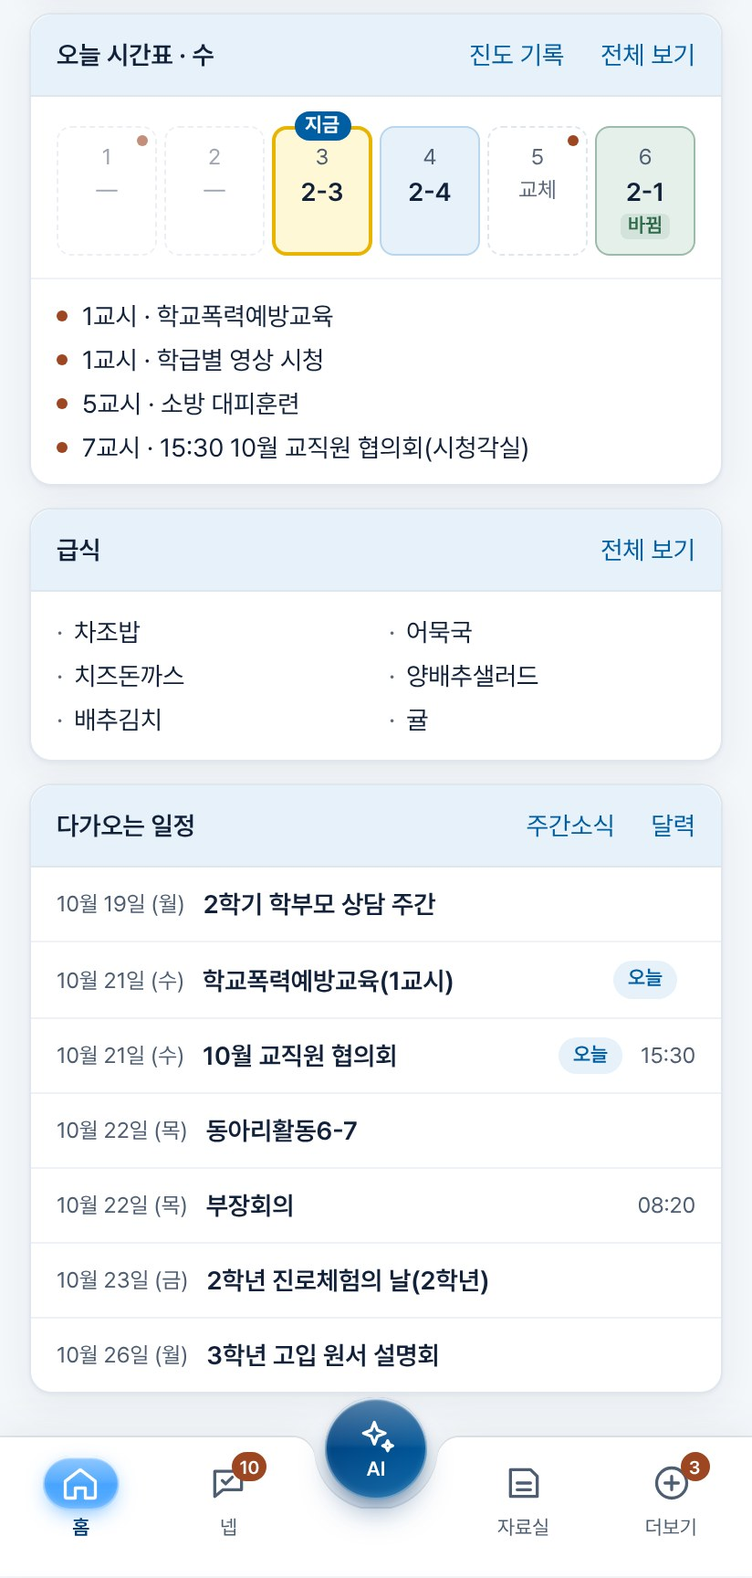
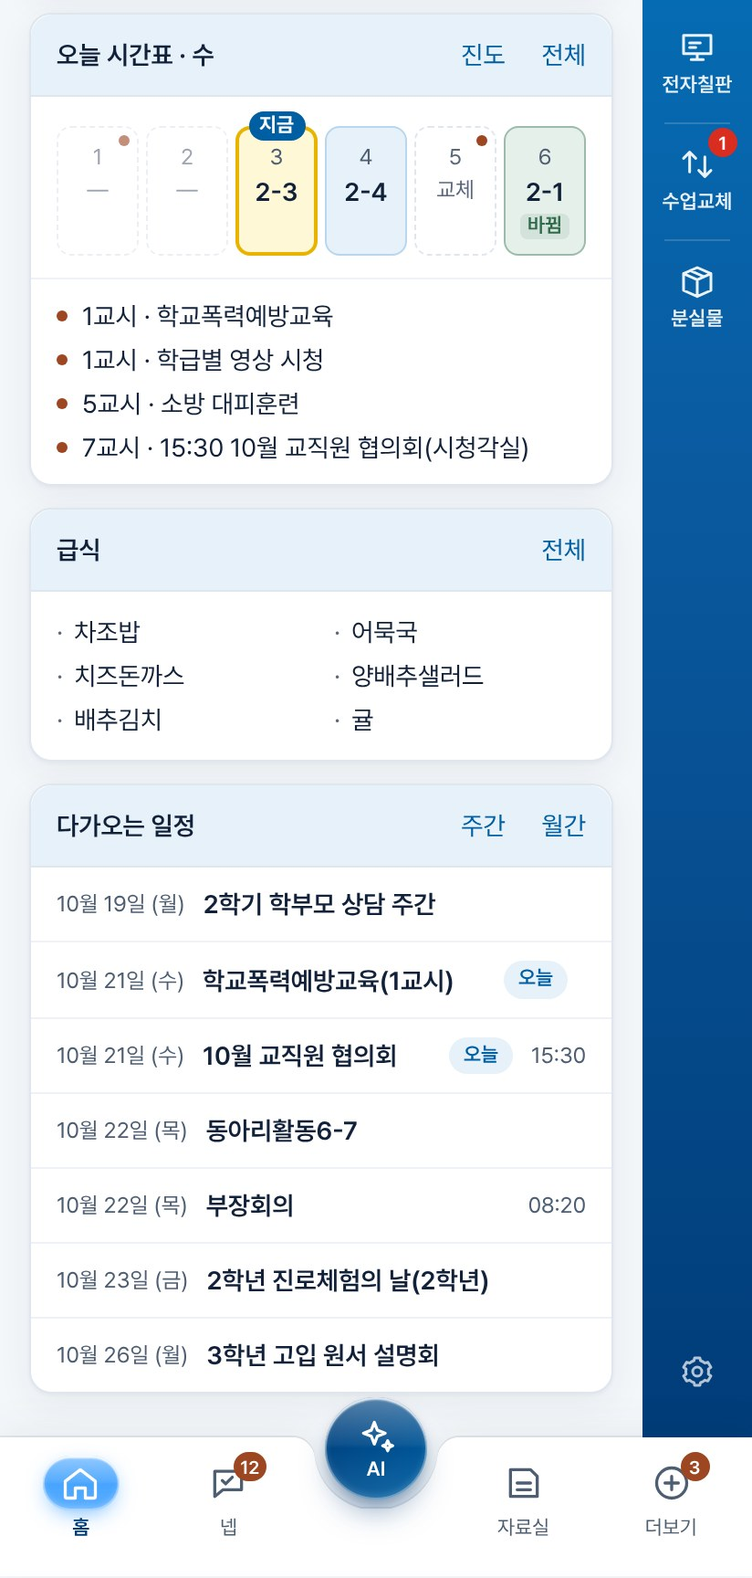
홈 오른쪽 바로가기 기둥(10/30)·카드 머리 두 글자(10/31) 반영 — 홈 그림 다시, 톱니 「바로가기 고르기」 장면
- 홈·홈 아래·PC 홈 그림 다시, 바로가기 고르기 창 새 그림
- 시간표 「전체」·진도 「진도」·일정 「월간」·주간소식 「주간」으로 글 바꿈
- PC 프로그램 0.3.11(옛 0.3.8 내려받기 링크가 지워진 파일을 가리키던 것), 넵 보낸 탭은 여러 분께·예약만
- 첫 화면 「10월 26~31일에 바뀐 것」

Claude-Session: https://claude.ai/code/session_01PnRkvZMXyWQ3PDuECRmpn5

diff --git a/img/rects.js b/img/rects.js
@@ -1,3 +1,3 @@
 /* 화면마다 동그라미 칠 자리(412×864 기준, 찍을 때 잰 값) — R(화면, 키) */
-window.SHOT_RECTS = {"ai-board": {"button": [31, 446, 162, 40], "card": [16, 286, 380, 213], "head": [31, 297, 177, 20], "question": [73, 68, 323, 98]}, "ai-deep": {"answer": [16, 202, 323, 464], "feedback": [20, 672, 41, 36], "question": [73, 68, 323, 124]}, "ai-deep-ready": {"deep": [72, 588, 211, 34], "file": [16, 499, 380, 38], "input": [72, 634, 268, 72], "plus": [16, 658, 48, 48], "send": [348, 658, 48, 48]}, "ai-form": {"answer": [16, 124, 323, 308], "feedback": [20, 438, 41, 36], "links": [267, 372, 37, 19], "question": [147, 68, 249, 46]}, "ai-home": {"chip_first": [16, 202, 380, 46], "chips": [16, 201, 380, 236], "clear": [333, 12, 71, 44], "greet": [16, 100, 380, 30], "head": [16, 16, 74, 36], "hello": [16, 134, 380, 39], "input": [72, 658, 268, 48], "mic": [348, 658, 48, 48], "notice": [16, 718, 380, 33], "plus": [16, 658, 48, 48], "tab_ai": [166, 792, 81, 44]}, "ai-lesson": {"body": [31, 501, 350, 482], "card": [16, 260, 380, 834], "head": [17, 261, 378, 41], "question": [73, 68, 323, 72]}, "ai-lesson-2": {"body": [31, 48, 350, 482], "button": [31, 560, 111, 40]}, "ai-letter": {"body": [31, 620, 350, 274], "card": [16, 286, 380, 671], "head": [17, 287, 378, 41], "question": [73, 68, 323, 72]}, "ai-letter-2": {"body": [31, 276, 350, 274], "button": [31, 560, 151, 40], "feedback": [20, 619, 41, 36]}, "ai-library": {"answer": [16, 124, 323, 438], "feedback": [20, 568, 41, 36], "links": [65, 450, 37, 19], "question": [133, 68, 263, 46]}, "ai-lost": {"button": [31, 586, 84, 40], "card": [16, 312, 380, 327], "photo": [31, 366, 96, 96], "question": [73, 68, 323, 124]}, "ai-nep": {"button": [31, 726, 84, 40], "card": [16, 286, 380, 493], "edit": [127, 738, 89, 16], "people": [31, 589, 350, 84], "question": [73, 68, 323, 72]}, "ai-number": {"button": [31, 449, 96, 40], "card": [16, 260, 380, 242], "question": [81, 68, 315, 46]}, "ai-parent": {"answer": [16, 150, 323, 386], "feedback": [20, 542, 41, 36], "question": [73, 68, 323, 72]}, "ai-plus": {"attach": [22, 523, 284, 60], "close": [16, 658, 48, 48], "deep": [22, 584, 284, 60], "menu": [16, 517, 296, 133]}, "ai-progress": {"button": [31, 504, 108, 40], "card": [16, 286, 380, 271], "question": [73, 68, 323, 72]}, "ai-recruit": {"button": [31, 546, 68, 40], "card": [16, 312, 380, 287], "question": [73, 68, 323, 72], "reason": [31, 480, 350, 35]}, "ai-repair": {"button": [31, 576, 96, 40], "card": [16, 260, 380, 369], "head": [17, 261, 378, 41], "question": [73, 68, 323, 72]}, "ai-sign": {"button": [31, 705, 175, 40], "card": [16, 286, 380, 472], "people": [31, 544, 350, 151], "question": [73, 68, 323, 72]}, "ai-swap": {"calendar": [31, 364, 75, 14], "card": [16, 312, 380, 703], "question": [73, 68, 323, 72]}, "ai-typed": {"input": [72, 658, 268, 48], "plus": [16, 658, 48, 48], "send": [348, 658, 48, 48]}, "ai-week": {"answer": [16, 124, 323, 308], "feedback": [20, 438, 41, 36], "question": [214, 68, 182, 46]}, "alerts": {}, "alerts-done": {"clear": [316, 379, 80, 44], "summary": [16, 331, 380, 44]}, "board-alert": {"all": [174, 569, 92, 40], "fire": [150, 233, 113, 56], "kind": [266, 137, 112, 44], "offline": [31, 679, 350, 16], "presets": [31, 233, 350, 118], "submit": [31, 701, 350, 50]}, "board-alert-confirm": {"cancel": [16, 804, 136, 44], "go": [160, 804, 236, 44], "sheet": [0, 0, 412, 864], "text": [16, 720, 380, 72], "where": [16, 668, 380, 40]}, "board-grades": {"g1": [31, 531, 113, 40], "g2": [150, 531, 113, 40], "offline": [31, 602, 350, 16], "submit": [31, 624, 350, 50]}, "board-memo": {"body": [31, 233, 350, 110], "kind": [150, 137, 112, 44], "note": [31, 358, 350, 32], "submit": [31, 600, 350, 50]}, "board-photo": {"body": [31, 233, 350, 110], "photoChip": [105, 358, 90, 36], "submit": [31, 701, 350, 50], "thumb": [43, 456, 103, 80]}, "board-pick": {"all": [16, 535, 380, 44], "done": [16, 798, 380, 50], "grid": [16, 591, 380, 94], "legend": [16, 697, 380, 32], "off": [170, 641, 71, 44], "tabs": [16, 481, 380, 42]}, "board-send": {"body": [31, 233, 350, 110], "kinds": [31, 134, 350, 50], "mine": [272, 485, 109, 40], "options": [31, 358, 350, 78], "submit": [31, 602, 350, 50], "what": [31, 204, 350, 21], "where": [31, 456, 350, 115]}, "board-sent": {"done": [31, 528, 90, 22], "end": [31, 408, 50, 36], "live": [82, 381, 34, 16], "liveChip": [31, 378, 96, 22], "over": [31, 677, 88, 22], "reserve": [300, 129, 81, 16], "tabs": [247, 59, 134, 42], "unshown": [126, 733, 100, 22], "waitChip": [31, 185, 69, 22]}, "board-voice-rec": {"status": [43, 336, 326, 92], "stop": [287, 388, 82, 40]}, "calendar": {"grid": [16, 120, 380, 443], "seg": [206, 61, 187, 44], "today": [196, 391, 20, 20]}, "exam-card": {"ends": [31, 178, 350, 161], "head": [31, 87, 152, 20], "slots": [31, 134, 350, 32], "stats": [31, 351, 350, 73]}, "exam-card-pad": {"legend": [31, 150, 350, 16], "n24": [183, 307, 47, 40], "n7": [334, 195, 47, 40], "n9": [82, 239, 47, 40], "names": [31, 403, 350, 113], "stats": [31, 41, 350, 73]}, "exam-card-save": {"names": [31, 292, 350, 113], "note": [31, 470, 350, 48], "save": [31, 550, 350, 50]}, "forms": {"trip": [17, 110, 378, 56]}, "found": {"head": [16, 24, 380, 71]}, "home": {"bell": [360, 16, 44, 44], "changed": [326, 606, 55, 71], "hero": [16, 96, 380, 61], "hint": [16, 402, 380, 44], "nep": [16, 478, 380, 54], "now": [149, 606, 55, 71], "peek": [16, 168, 380, 142], "pill": [282, 179, 101, 28], "tabAi": [166, 792, 81, 44], "tabMore": [327, 792, 81, 61], "tabNep": [85, 792, 81, 61], "tileLesson": [16, 322, 186, 72], "tileSched": [210, 322, 186, 72], "tiles": [16, 322, 380, 72], "tt": [321, 545, 68, 44]}, "home-3": {"cal": [349, 430, 40, 44], "meal": [31, 291, 24, 20], "upcoming": [31, 442, 76, 20], "weekly": [280, 430, 64, 44]}, "home-sports": {"card": [16, 16, 380, 493], "link": [16, 16, 380, 493]}, "library": {"chips": [72, 214, 52, 39], "pinned": [16, 282, 380, 95], "search": [52, 169, 331, 23], "write": [310, 720, 86, 48]}, "library-new": {"kind": [206, 440, 172, 36], "section": [31, 120, 350, 48], "submit": [31, 624, 350, 50], "title": [31, 210, 350, 48]}, "library-post": {"download": [31, 211, 350, 44]}, "library-search": {"result": [16, 282, 380, 95], "search": [52, 169, 331, 23]}, "login": {"go": [58, 554, 296, 50], "name": [58, 299, 296, 48], "pw": [58, 467, 296, 48]}, "lost-date": {"head": [31, 91, 53, 28], "head2": [31, 207, 51, 28], "scene": [16, 76, 380, 680]}, "lost-found": {"add": [126, 679, 161, 54], "box": [16, 76, 380, 680], "item": [184, 368, 81, 81], "note": [16, 756, 380, 43], "returned": [286, 16, 110, 44], "student": [251, 767, 50, 13]}, "lost-found-2": {"add": [126, 643, 161, 54], "note": [16, 720, 380, 43], "student": [251, 731, 50, 13]}, "lost-found-add": {"photo": [16, 154, 380, 212], "place": [16, 558, 380, 73], "submit": [149, 863, 247, 44]}, "lost-found-detail": {"back": [16, 804, 380, 44], "info": [16, 572, 380, 133]}, "lost-kind": {"head": [31, 91, 58, 28], "scene": [16, 76, 380, 680]}, "lost-tilt": {"btn": [280, 89, 103, 34], "scene": [16, 76, 380, 680]}, "meals": {}, "more-2": {"lost": [17, 228, 378, 56], "noti": [17, 524, 378, 56], "sign": [17, 376, 378, 56], "signature": [17, 580, 378, 56]}, "more-tools": {"board": [17, 383, 378, 56], "lost": [17, 643, 378, 56], "tools": [17, 439, 378, 56]}, "more-top": {"avatar": [107, 128, 203, 17]}, "nep-add": {"add": [16, 448, 253, 44]}, "nep-big": {"sheet": [0, 0, 412, 864]}, "nep-board": {"meter": [16, 173, 380, 76], "pending": [16, 261, 380, 21], "remind": [16, 328, 380, 44]}, "nep-board-replies": {"replies": [17, 509, 378, 37]}, "nep-board-submit": {"downloadAll": [275, 420, 121, 44]}, "nep-cal": {"events": [35, 292, 55, 20], "post": [35, 438, 342, 44]}, "nep-compose": {"plus": [16, 808, 44, 44], "send": [312, 808, 84, 44], "text": [16, 85, 380, 144], "to": [53, 52, 49, 25]}, "nep-compose-due": {"chip": [16, 237, 152, 29], "due": [43, 281, 261, 36], "send": [312, 808, 84, 44]}, "nep-event-hide": {"hide": [239, 385, 95, 44]}, "nep-fwd": {"card": [12, 276, 341, 358], "fwd": [307, 281, 39, 36]}, "nep-fwd-org": {"banner": [30, 148, 316, 40], "bar": [284, 702, 104, 41]}, "nep-inbox": {"chip": [341, 457, 51, 21], "me": [0, 128, 412, 68], "recruit": [0, 264, 412, 68], "row": [0, 196, 412, 68], "tabs": [16, 76, 380, 48], "unread": [372, 230, 20, 20]}, "nep-inbox-2": {"over": [332, 725, 60, 21], "park": [0, 623, 412, 68], "parkChip": [332, 657, 60, 21]}, "nep-link": {"ack": [27, 315, 60, 44], "card": [12, 118, 341, 254], "link": [27, 245, 311, 60]}, "nep-me": {"card": [12, 118, 341, 360], "events": [27, 281, 55, 20], "head": [0, 0, 412, 61]}, "nep-me-due": {"chip": [12, 649, 152, 29], "input": [64, 685, 260, 68], "last": [12, 423, 341, 360], "plus": [12, 709, 44, 44], "send": [332, 709, 68, 44]}, "nep-org": {"all": [14, 136, 384, 70], "dept": [15, 382, 382, 45], "deptCheck": [349, 383, 44, 44], "search": [348, 20, 44, 44], "tabInbox": [144, 80, 124, 40], "tabs": [16, 76, 380, 48], "top": [15, 248, 382, 89]}, "nep-org-groups": {"role": [15, 505, 382, 44], "roleCheck": [349, 505, 44, 44], "subj": [15, 417, 382, 45], "subjCheck": [349, 418, 44, 44]}, "nep-org-open": {"card": [15, 120, 382, 270], "check": [349, 256, 44, 44], "head": [349, 121, 44, 44], "me": [35, 352, 310, 32], "name": [35, 262, 310, 32]}, "nep-org-picked": {"bar": [14, 692, 384, 61], "checks": [15, 165, 382, 225], "write": [283, 702, 105, 41]}, "nep-org-search": {"found": [35, 277, 310, 32], "input": [50, 82, 298, 36]}, "nep-photos": {"photos": [12, 260, 288, 289], "save": [308, 387, 36, 36]}, "nep-plus": {"ack": [16, 536, 380, 56], "files": [16, 472, 380, 56], "schedule": [16, 728, 380, 56], "sheet": [0, 0, 412, 864], "submit": [16, 664, 380, 56], "task": [16, 600, 380, 56], "urgent": [16, 792, 380, 56]}, "nep-recruit": {"apply": [27, 628, 72, 44], "card": [12, 502, 341, 182], "duty": [12, 308, 341, 184], "head": [0, 0, 412, 61], "old": [12, 34, 341, 230], "oldState": [27, 159, 127, 44]}, "nep-room": {"bubble": [209, 643, 191, 63], "card": [12, 276, 341, 358], "done": [27, 576, 72, 44], "due": [27, 530, 311, 36], "head": [0, 0, 412, 61], "input": [64, 709, 260, 44], "plus": [12, 709, 44, 44], "send": [332, 709, 68, 44]}, "nep-room-done": {"done": [27, 576, 100, 44]}, "nep-room-menu": {"dots": [360, 10, 40, 40], "item": [241, 59, 158, 44]}, "nep-room-reply": {"input": [64, 808, 260, 44], "last": [12, 397, 341, 129], "mine": [131, 289, 269, 63], "send": [332, 808, 68, 44], "theirs": [12, 118, 341, 162]}, "nep-sent": {"one": [0, 264, 412, 68], "progress": [0, 468, 412, 68], "sched": [0, 128, 412, 68], "tabs": [16, 76, 380, 48]}, "nep-swipe": {"clear": [328, 196, 84, 68], "row": [0, 196, 412, 68]}, "notifications-off": {"nurse": [333, 308, 48, 28], "on": [62, 147, 319, 44]}, "notifications-on": {"nurse": [333, 390, 48, 28], "test": [63, 177, 318, 44]}, "nurse": {"open": [31, 139, 350, 50]}, "password": {"go": [31, 297, 350, 50], "new": [31, 121, 350, 48]}, "pc-noti": {"on": [56, 89, 325, 20], "test": [56, 165, 325, 44], "tray": [56, 121, 325, 32]}, "pg-class": {"chips": [16, 76, 380, 44], "csv": [309, 16, 87, 44]}, "pg-month": {"left": [33, 354, 346, 17], "nav": [16, 205, 380, 40], "row": [16, 396, 380, 118], "streak": [299, 270, 80, 21], "summary": [16, 257, 380, 127], "toggle": [16, 139, 380, 54]}, "pg-month-2": {"legend": [16, 614, 380, 40], "off": [77, 57, 24, 32], "row": [16, 267, 380, 118], "star": [53, 64, 16, 17], "today": [77, 91, 24, 32], "todo": [53, 342, 24, 32]}, "pg-month-pick": {"head": [31, 89, 121, 21], "slot": [17, 300, 378, 29]}, "pg-today": {"card": [16, 229, 380, 142], "date": [68, 139, 216, 44], "map": [206, 80, 187, 44], "save": [309, 703, 87, 44], "segment": [16, 77, 380, 50]}, "pg-today-classes": {"classes": [17, 524, 378, 46], "row": [17, 667, 378, 48]}, "pg-week": {"hint": [16, 605, 380, 17], "list": [16, 139, 380, 54], "nav": [16, 205, 380, 40], "toggle": [16, 139, 380, 54]}, "pg-week-pick": {"head": [31, 400, 120, 21], "row": [17, 142, 378, 72]}, "rain-pe": {"chips": [31, 208, 350, 120], "mine": [17, 132, 378, 32], "note": [16, 707, 380, 48], "slot": [17, 164, 378, 177]}, "record": {"privacy": [16, 42, 253, 16]}, "record-activities": {"activities": [31, 170, 350, 425], "subject": [31, 88, 350, 48]}, "record-input": {"count": [31, 403, 350, 48], "tabs": [16, 90, 380, 50], "upload": [31, 485, 350, 21]}, "record-kinds": {"gwasetuk": [31, 265, 65, 20]}, "record-options": {"generate": [31, 383, 350, 50], "length": [31, 61, 350, 21], "model": [31, 301, 350, 48]}, "record-result": {"basis": [31, 532, 350, 90], "result": [31, 330, 350, 166]}, "sign-file": {"doc": [312, 103, 56, 21], "sign": [31, 181, 252, 48]}, "sign-file-new": {"file": [31, 110, 350, 117], "hint": [31, 192, 350, 35], "title": [31, 271, 350, 48], "who": [31, 335, 350, 23]}, "sign-file-new-bottom": {"me": [31, 667, 350, 21], "next": [31, 705, 350, 44]}, "sign-list": {"file": [30, 89, 157, 26], "meeting": [226, 90, 155, 26], "todo": [16, 166, 380, 23]}, "sign-meeting": {"hand": [295, 141, 71, 17], "roster": [17, 234, 378, 464], "sign": [31, 126, 252, 48]}, "sign-meeting-new": {"chips": [76, 455, 95, 40], "picker": [31, 401, 350, 44], "title": [31, 120, 350, 48], "when": [31, 212, 169, 48]}, "sign-meeting-new-bottom": {"group": [71, 452, 310, 48], "me": [31, 617, 350, 21], "members": [31, 511, 350, 62], "submit": [31, 705, 350, 44]}, "sign-mine": {}, "signature": {"default": [267, 96, 112, 21], "hand": [16, 77, 380, 302], "stamp": [16, 391, 380, 302]}, "signature-draw": {"pad": [17, 567, 378, 224], "save": [338, 804, 58, 44]}, "signature-empty": {"draw": [33, 318, 100, 44], "stamp": [33, 633, 130, 44]}, "sports": {"bracket": [16, 77, 380, 262], "match": [29, 394, 354, 129], "rounds": [98, 352, 50, 32], "score": [116, 176, 17, 14]}, "sub-calc": {"calendar": [31, 466, 350, 21], "date": [31, 316, 169, 44], "go": [31, 501, 350, 44], "periods": [31, 374, 350, 113], "reason": [212, 316, 169, 44], "tabs": [16, 77, 380, 50], "teacher": [31, 229, 350, 44]}, "sub-dates": {"byHand": [278, 520, 71, 17], "dates": [43, 117, 255, 68], "request": [31, 508, 235, 40], "tools": [31, 460, 350, 36]}, "sub-inbox": {"pending": [16, 316, 380, 21], "proxy": [31, 651, 220, 40], "register": [16, 139, 380, 44], "rooms": [16, 243, 380, 65], "tab": [268, 80, 125, 44]}, "sub-requests": {"accept": [31, 611, 185, 40], "byHand": [228, 623, 71, 17], "card": [16, 407, 380, 257], "reject": [307, 611, 56, 40], "tab": [206, 80, 187, 44]}, "sub-result": {"calendar": [31, 120, 350, 42], "date": [43, 317, 279, 40], "firstStep": [31, 264, 350, 23], "plan1": [31, 207, 350, 49]}, "today": {"board": [31, 87, 48, 20], "days": [180, 305, 40, 21], "mynep": [31, 452, 39, 20], "prayer": [17, 120, 378, 42]}, "today-2": {"changes": [17, 321, 378, 45], "events": [31, 94, 64, 20]}, "tt-class": {"picker": [16, 135, 380, 44], "tabs": [16, 77, 380, 50]}, "tt-free": {"name": [31, 395, 60, 40], "rooms": [16, 212, 380, 123], "teachers": [16, 347, 380, 343]}, "tt-free-nep": {}, "tt-my": {"away": [191, 516, 61, 87], "band": [191, 226, 61, 87], "changed": [191, 606, 61, 68], "pending": [322, 317, 61, 68], "picker": [16, 135, 380, 44], "tabs": [16, 77, 380, 50], "today": [191, 389, 61, 68]}, "tt-pop": {"band": [191, 226, 61, 87], "pop": [29, 317, 354, 115]}, "weekly": {"mine": [44, 526, 324, 76], "seg": [206, 171, 187, 44]}};
+window.SHOT_RECTS = {"ai-board": {"button": [31, 446, 162, 40], "card": [16, 286, 380, 213], "head": [31, 297, 177, 20], "question": [73, 68, 323, 98]}, "ai-deep": {"answer": [16, 202, 323, 464], "feedback": [20, 672, 41, 36], "question": [73, 68, 323, 124]}, "ai-deep-ready": {"deep": [72, 588, 211, 34], "file": [16, 499, 380, 38], "input": [72, 634, 268, 72], "plus": [16, 658, 48, 48], "send": [348, 658, 48, 48]}, "ai-form": {"answer": [16, 124, 323, 308], "feedback": [20, 438, 41, 36], "links": [267, 372, 37, 19], "question": [147, 68, 249, 46]}, "ai-home": {"chip_first": [16, 202, 380, 46], "chips": [16, 201, 380, 236], "clear": [333, 12, 71, 44], "greet": [16, 100, 380, 30], "head": [16, 16, 74, 36], "hello": [16, 134, 380, 39], "input": [72, 658, 268, 48], "mic": [348, 658, 48, 48], "notice": [16, 718, 380, 33], "plus": [16, 658, 48, 48], "tab_ai": [166, 792, 81, 44]}, "ai-lesson": {"body": [31, 501, 350, 482], "card": [16, 260, 380, 834], "head": [17, 261, 378, 41], "question": [73, 68, 323, 72]}, "ai-lesson-2": {"body": [31, 48, 350, 482], "button": [31, 560, 111, 40]}, "ai-letter": {"body": [31, 620, 350, 274], "card": [16, 286, 380, 671], "head": [17, 287, 378, 41], "question": [73, 68, 323, 72]}, "ai-letter-2": {"body": [31, 276, 350, 274], "button": [31, 560, 151, 40], "feedback": [20, 619, 41, 36]}, "ai-library": {"answer": [16, 124, 323, 438], "feedback": [20, 568, 41, 36], "links": [65, 450, 37, 19], "question": [133, 68, 263, 46]}, "ai-lost": {"button": [31, 586, 84, 40], "card": [16, 312, 380, 327], "photo": [31, 366, 96, 96], "question": [73, 68, 323, 124]}, "ai-nep": {"button": [31, 726, 84, 40], "card": [16, 286, 380, 493], "edit": [127, 738, 89, 16], "people": [31, 589, 350, 84], "question": [73, 68, 323, 72]}, "ai-number": {"button": [31, 449, 96, 40], "card": [16, 260, 380, 242], "question": [81, 68, 315, 46]}, "ai-parent": {"answer": [16, 150, 323, 386], "feedback": [20, 542, 41, 36], "question": [73, 68, 323, 72]}, "ai-plus": {"attach": [22, 523, 284, 60], "close": [16, 658, 48, 48], "deep": [22, 584, 284, 60], "menu": [16, 517, 296, 133]}, "ai-progress": {"button": [31, 504, 108, 40], "card": [16, 286, 380, 271], "question": [73, 68, 323, 72]}, "ai-recruit": {"button": [31, 546, 68, 40], "card": [16, 312, 380, 287], "question": [73, 68, 323, 72], "reason": [31, 480, 350, 35]}, "ai-repair": {"button": [31, 576, 96, 40], "card": [16, 260, 380, 369], "head": [17, 261, 378, 41], "question": [73, 68, 323, 72]}, "ai-sign": {"button": [31, 705, 175, 40], "card": [16, 286, 380, 472], "people": [31, 544, 350, 151], "question": [73, 68, 323, 72]}, "ai-swap": {"calendar": [31, 364, 75, 14], "card": [16, 312, 380, 703], "question": [73, 68, 323, 72]}, "ai-typed": {"input": [72, 658, 268, 48], "plus": [16, 658, 48, 48], "send": [348, 658, 48, 48]}, "ai-week": {"answer": [16, 124, 323, 308], "feedback": [20, 438, 41, 36], "question": [214, 68, 182, 46]}, "alerts": {}, "alerts-done": {"clear": [316, 379, 80, 44], "summary": [16, 331, 380, 44]}, "board-alert": {"all": [174, 569, 92, 40], "fire": [150, 233, 113, 56], "kind": [266, 137, 112, 44], "offline": [31, 679, 350, 16], "presets": [31, 233, 350, 118], "submit": [31, 701, 350, 50]}, "board-alert-confirm": {"cancel": [16, 804, 136, 44], "go": [160, 804, 236, 44], "sheet": [0, 0, 412, 864], "text": [16, 720, 380, 72], "where": [16, 668, 380, 40]}, "board-grades": {"g1": [31, 531, 113, 40], "g2": [150, 531, 113, 40], "offline": [31, 602, 350, 16], "submit": [31, 624, 350, 50]}, "board-memo": {"body": [31, 233, 350, 110], "kind": [150, 137, 112, 44], "note": [31, 358, 350, 32], "submit": [31, 600, 350, 50]}, "board-photo": {"body": [31, 233, 350, 110], "photoChip": [105, 358, 90, 36], "submit": [31, 701, 350, 50], "thumb": [43, 456, 103, 80]}, "board-pick": {"all": [16, 535, 380, 44], "done": [16, 798, 380, 50], "grid": [16, 591, 380, 94], "legend": [16, 697, 380, 32], "off": [170, 641, 71, 44], "tabs": [16, 481, 380, 42]}, "board-send": {"body": [31, 233, 350, 110], "kinds": [31, 134, 350, 50], "mine": [272, 485, 109, 40], "options": [31, 358, 350, 78], "submit": [31, 602, 350, 50], "what": [31, 204, 350, 21], "where": [31, 456, 350, 115]}, "board-sent": {"done": [31, 528, 90, 22], "end": [31, 408, 50, 36], "live": [82, 381, 34, 16], "liveChip": [31, 378, 96, 22], "over": [31, 677, 88, 22], "reserve": [300, 129, 81, 16], "tabs": [247, 59, 134, 42], "unshown": [126, 733, 100, 22], "waitChip": [31, 185, 69, 22]}, "board-voice-rec": {"status": [43, 336, 326, 92], "stop": [287, 388, 82, 40]}, "calendar": {"grid": [16, 120, 380, 443], "seg": [206, 61, 187, 44], "today": [196, 391, 20, 20]}, "exam-card": {"ends": [31, 178, 350, 161], "head": [31, 87, 152, 20], "slots": [31, 134, 350, 32], "stats": [31, 351, 350, 73]}, "exam-card-pad": {"legend": [31, 150, 350, 16], "n24": [183, 307, 47, 40], "n7": [334, 195, 47, 40], "n9": [82, 239, 47, 40], "names": [31, 403, 350, 113], "stats": [31, 41, 350, 73]}, "exam-card-save": {"names": [31, 292, 350, 113], "note": [31, 470, 350, 48], "save": [31, 550, 350, 50]}, "forms": {"trip": [17, 110, 378, 56]}, "found": {"head": [16, 24, 380, 71]}, "home": {"bell": [360, 16, 44, 44], "changed": [276, 550, 45, 71], "gear": [356, 729, 52, 44], "hero": [16, 96, 380, 61], "hint": [16, 346, 380, 44], "nep": [16, 422, 320, 54], "now": [129, 550, 45, 71], "peek": [16, 168, 380, 120], "pg": [245, 489, 40, 44], "pill": [282, 177, 101, 28], "rail": [352, 406, 60, 380], "sc": [356, 410, 52, 62], "scAll": [356, 538, 52, 62], "tabAi": [166, 792, 81, 44], "tabMore": [327, 792, 81, 61], "tabNep": [85, 792, 81, 61], "tileLesson": [16, 300, 186, 38], "tileSched": [210, 300, 186, 38], "tiles": [16, 300, 380, 38], "tt": [289, 489, 40, 44]}, "home-3": {"cal": [289, 430, 40, 44], "gear": [356, 729, 52, 44], "meal": [31, 291, 24, 20], "rail": [352, 0, 60, 786], "upcoming": [31, 442, 76, 20], "weekly": [245, 430, 40, 44]}, "home-sheet": {"count": [16, 819, 69, 18], "done": [332, 808, 64, 40], "head": [16, 262, 380, 24], "pick": [16, 314, 380, 484], "sheet": [0, 0, 412, 864]}, "home-sports": {"card": [16, 16, 380, 493], "link": [16, 16, 380, 493]}, "library": {"chips": [72, 214, 52, 39], "pinned": [16, 282, 380, 95], "search": [52, 169, 331, 23], "write": [310, 720, 86, 48]}, "library-new": {"kind": [206, 440, 172, 36], "section": [31, 120, 350, 48], "submit": [31, 624, 350, 50], "title": [31, 210, 350, 48]}, "library-post": {"download": [31, 211, 350, 44]}, "library-search": {"result": [16, 282, 380, 95], "search": [52, 169, 331, 23]}, "login": {"go": [58, 554, 296, 50], "name": [58, 299, 296, 48], "pw": [58, 467, 296, 48]}, "lost-date": {"head": [31, 91, 53, 28], "head2": [31, 207, 51, 28], "scene": [16, 76, 380, 680]}, "lost-found": {"add": [126, 679, 161, 54], "box": [16, 76, 380, 680], "item": [184, 368, 81, 81], "note": [16, 756, 380, 43], "returned": [286, 16, 110, 44], "student": [251, 767, 50, 13]}, "lost-found-2": {"add": [126, 643, 161, 54], "note": [16, 720, 380, 43], "student": [251, 731, 50, 13]}, "lost-found-add": {"photo": [16, 154, 380, 212], "place": [16, 558, 380, 73], "submit": [149, 863, 247, 44]}, "lost-found-detail": {"back": [16, 804, 380, 44], "info": [16, 572, 380, 133]}, "lost-kind": {"head": [31, 91, 58, 28], "scene": [16, 76, 380, 680]}, "lost-tilt": {"btn": [280, 89, 103, 34], "scene": [16, 76, 380, 680]}, "meals": {}, "more-2": {"lost": [17, 228, 378, 56], "noti": [17, 524, 378, 56], "sign": [17, 376, 378, 56], "signature": [17, 580, 378, 56]}, "more-tools": {"board": [17, 383, 378, 56], "lost": [17, 643, 378, 56], "tools": [17, 439, 378, 56]}, "more-top": {"avatar": [107, 128, 203, 17]}, "nep-add": {"add": [16, 448, 253, 44]}, "nep-big": {"sheet": [0, 0, 412, 864]}, "nep-board": {"meter": [16, 173, 380, 76], "pending": [16, 261, 380, 21], "remind": [16, 328, 380, 44]}, "nep-board-replies": {"replies": [17, 509, 378, 37]}, "nep-board-submit": {"downloadAll": [275, 420, 121, 44]}, "nep-cal": {"events": [35, 292, 55, 20], "post": [35, 438, 342, 44]}, "nep-compose": {"plus": [16, 808, 44, 44], "send": [312, 808, 84, 44], "text": [16, 85, 380, 144], "to": [53, 52, 49, 25]}, "nep-compose-due": {"chip": [16, 237, 152, 29], "due": [43, 281, 261, 36], "send": [312, 808, 84, 44]}, "nep-event-hide": {"hide": [239, 385, 95, 44]}, "nep-fwd": {"card": [12, 276, 341, 358], "fwd": [307, 281, 39, 36]}, "nep-fwd-org": {"banner": [30, 148, 316, 40], "bar": [284, 702, 104, 41]}, "nep-inbox": {"chip": [341, 457, 51, 21], "me": [0, 128, 412, 68], "recruit": [0, 264, 412, 68], "row": [0, 196, 412, 68], "tabs": [16, 76, 380, 48], "unread": [372, 230, 20, 20]}, "nep-inbox-2": {"over": [332, 725, 60, 21], "park": [0, 623, 412, 68], "parkChip": [332, 657, 60, 21]}, "nep-link": {"ack": [27, 315, 60, 44], "card": [12, 118, 341, 254], "link": [27, 245, 311, 60]}, "nep-me": {"card": [12, 118, 341, 360], "events": [27, 281, 55, 20], "head": [0, 0, 412, 61]}, "nep-me-due": {"chip": [12, 649, 152, 29], "input": [64, 685, 260, 68], "last": [12, 423, 341, 360], "plus": [12, 709, 44, 44], "send": [332, 709, 68, 44]}, "nep-org": {"all": [14, 136, 384, 70], "dept": [15, 382, 382, 45], "deptCheck": [349, 383, 44, 44], "search": [348, 20, 44, 44], "tabInbox": [144, 80, 124, 40], "tabs": [16, 76, 380, 48], "top": [15, 248, 382, 89]}, "nep-org-groups": {"role": [15, 505, 382, 44], "roleCheck": [349, 505, 44, 44], "subj": [15, 417, 382, 45], "subjCheck": [349, 418, 44, 44]}, "nep-org-open": {"card": [15, 120, 382, 270], "check": [349, 256, 44, 44], "head": [349, 121, 44, 44], "me": [35, 352, 310, 32], "name": [35, 262, 310, 32]}, "nep-org-picked": {"bar": [14, 692, 384, 61], "checks": [15, 165, 382, 225], "write": [283, 702, 105, 41]}, "nep-org-search": {"found": [35, 277, 310, 32], "input": [50, 82, 298, 36]}, "nep-photos": {"photos": [12, 260, 288, 289], "save": [308, 387, 36, 36]}, "nep-plus": {"ack": [16, 536, 380, 56], "files": [16, 472, 380, 56], "schedule": [16, 728, 380, 56], "sheet": [0, 0, 412, 864], "submit": [16, 664, 380, 56], "task": [16, 600, 380, 56], "urgent": [16, 792, 380, 56]}, "nep-recruit": {"apply": [27, 628, 72, 44], "card": [12, 502, 341, 182], "duty": [12, 308, 341, 184], "head": [0, 0, 412, 61], "old": [12, 34, 341, 230], "oldState": [27, 159, 127, 44]}, "nep-room": {"bubble": [209, 643, 191, 63], "card": [12, 276, 341, 358], "done": [27, 576, 72, 44], "due": [27, 530, 311, 36], "head": [0, 0, 412, 61], "input": [64, 709, 260, 44], "plus": [12, 709, 44, 44], "send": [332, 709, 68, 44]}, "nep-room-done": {"done": [27, 576, 100, 44]}, "nep-room-menu": {"dots": [360, 10, 40, 40], "item": [241, 59, 158, 44]}, "nep-room-reply": {"input": [64, 808, 260, 44], "last": [12, 397, 341, 129], "mine": [131, 289, 269, 63], "send": [332, 808, 68, 44], "theirs": [12, 118, 341, 162]}, "nep-sent": {"one": [0, 264, 412, 68], "progress": [0, 468, 412, 68], "sched": [0, 128, 412, 68], "tabs": [16, 76, 380, 48]}, "nep-swipe": {"clear": [328, 196, 84, 68], "row": [0, 196, 412, 68]}, "notifications-off": {"nurse": [333, 308, 48, 28], "on": [62, 147, 319, 44]}, "notifications-on": {"nurse": [333, 390, 48, 28], "test": [63, 177, 318, 44]}, "nurse": {"open": [31, 139, 350, 50]}, "password": {"go": [31, 297, 350, 50], "new": [31, 121, 350, 48]}, "pc-noti": {"on": [56, 89, 325, 20], "test": [56, 165, 325, 44], "tray": [56, 121, 325, 32]}, "pg-class": {"chips": [16, 76, 380, 44], "csv": [309, 16, 87, 44]}, "pg-month": {"left": [33, 354, 346, 17], "nav": [16, 205, 380, 40], "row": [16, 396, 380, 118], "streak": [299, 270, 80, 21], "summary": [16, 257, 380, 127], "toggle": [16, 139, 380, 54]}, "pg-month-2": {"legend": [16, 614, 380, 40], "off": [77, 57, 24, 32], "row": [16, 267, 380, 118], "star": [53, 64, 16, 17], "today": [77, 91, 24, 32], "todo": [53, 342, 24, 32]}, "pg-month-pick": {"head": [31, 89, 121, 21], "slot": [17, 300, 378, 29]}, "pg-today": {"card": [16, 229, 380, 142], "date": [68, 139, 216, 44], "map": [206, 80, 187, 44], "save": [309, 703, 87, 44], "segment": [16, 77, 380, 50]}, "pg-today-classes": {"classes": [17, 524, 378, 46], "row": [17, 667, 378, 48]}, "pg-week": {"hint": [16, 605, 380, 17], "list": [16, 139, 380, 54], "nav": [16, 205, 380, 40], "toggle": [16, 139, 380, 54]}, "pg-week-pick": {"head": [31, 400, 120, 21], "row": [17, 142, 378, 72]}, "rain-pe": {"chips": [31, 208, 350, 120], "mine": [17, 132, 378, 32], "note": [16, 707, 380, 48], "slot": [17, 164, 378, 177]}, "record": {"privacy": [16, 42, 253, 16]}, "record-activities": {"activities": [31, 170, 350, 425], "subject": [31, 88, 350, 48]}, "record-input": {"count": [31, 403, 350, 48], "tabs": [16, 90, 380, 50], "upload": [31, 485, 350, 21]}, "record-kinds": {"gwasetuk": [31, 265, 65, 20]}, "record-options": {"generate": [31, 383, 350, 50], "length": [31, 61, 350, 21], "model": [31, 301, 350, 48]}, "record-result": {"basis": [31, 532, 350, 90], "result": [31, 330, 350, 166]}, "sign-file": {"doc": [312, 103, 56, 21], "sign": [31, 181, 252, 48]}, "sign-file-new": {"file": [31, 110, 350, 117], "hint": [31, 192, 350, 35], "title": [31, 271, 350, 48], "who": [31, 335, 350, 23]}, "sign-file-new-bottom": {"me": [31, 667, 350, 21], "next": [31, 705, 350, 44]}, "sign-list": {"file": [30, 89, 157, 26], "meeting": [226, 90, 155, 26], "todo": [16, 166, 380, 23]}, "sign-meeting": {"hand": [295, 141, 71, 17], "roster": [17, 234, 378, 464], "sign": [31, 126, 252, 48]}, "sign-meeting-new": {"chips": [76, 455, 95, 40], "picker": [31, 401, 350, 44], "title": [31, 120, 350, 48], "when": [31, 212, 169, 48]}, "sign-meeting-new-bottom": {"group": [71, 452, 310, 48], "me": [31, 617, 350, 21], "members": [31, 511, 350, 62], "submit": [31, 705, 350, 44]}, "sign-mine": {}, "signature": {"default": [267, 96, 112, 21], "hand": [16, 77, 380, 302], "stamp": [16, 391, 380, 302]}, "signature-draw": {"pad": [17, 567, 378, 224], "save": [338, 804, 58, 44]}, "signature-empty": {"draw": [33, 318, 100, 44], "stamp": [33, 633, 130, 44]}, "sports": {"bracket": [16, 77, 380, 262], "match": [29, 394, 354, 129], "rounds": [98, 352, 50, 32], "score": [116, 176, 17, 14]}, "sub-calc": {"calendar": [31, 466, 350, 21], "date": [31, 316, 169, 44], "go": [31, 501, 350, 44], "periods": [31, 374, 350, 113], "reason": [212, 316, 169, 44], "tabs": [16, 77, 380, 50], "teacher": [31, 229, 350, 44]}, "sub-dates": {"byHand": [278, 520, 71, 17], "dates": [43, 117, 255, 68], "request": [31, 508, 235, 40], "tools": [31, 460, 350, 36]}, "sub-inbox": {"pending": [16, 316, 380, 21], "proxy": [31, 651, 220, 40], "register": [16, 139, 380, 44], "rooms": [16, 243, 380, 65], "tab": [268, 80, 125, 44]}, "sub-requests": {"accept": [31, 611, 185, 40], "byHand": [228, 623, 71, 17], "card": [16, 407, 380, 257], "reject": [307, 611, 56, 40], "tab": [206, 80, 187, 44]}, "sub-result": {"calendar": [31, 120, 350, 42], "date": [43, 317, 279, 40], "firstStep": [31, 264, 350, 23], "plan1": [31, 207, 350, 49]}, "today": {"board": [31, 87, 48, 20], "days": [180, 305, 40, 21], "mynep": [31, 452, 39, 20], "prayer": [17, 120, 378, 42]}, "today-2": {"changes": [17, 321, 378, 45], "events": [31, 94, 64, 20]}, "tt-class": {"picker": [16, 135, 380, 44], "tabs": [16, 77, 380, 50]}, "tt-free": {"name": [31, 395, 60, 40], "rooms": [16, 212, 380, 123], "teachers": [16, 347, 380, 343]}, "tt-free-nep": {}, "tt-my": {"away": [191, 516, 61, 87], "band": [191, 226, 61, 87], "changed": [191, 606, 61, 68], "pending": [322, 317, 61, 68], "picker": [16, 135, 380, 44], "tabs": [16, 77, 380, 50], "today": [191, 389, 61, 68]}, "tt-pop": {"band": [191, 226, 61, 87], "pop": [29, 317, 354, 115]}, "weekly": {"mine": [44, 526, 324, 76], "seg": [206, 171, 187, 44]}};
 window.R = function (s, k) { var a = (window.SHOT_RECTS[s] || {})[k]; if (!a) { if (window.console) console.warn('rect 없음', s, k); return null; } return a; };

diff --git a/scenes.js b/scenes.js
@@ -745,13 +745,13 @@
     id: "pc", deck: false, part: 1, num: null, label: "PC 설치본 깔기", min: 1, isNew: true,
     chips: [{ t: "NEW", c: "new" }, { t: "교무실 PC" }], title: "교무실 PC에는 <em>설치본</em>",
     steps: [
-      { t: '설치 파일 받기: PC 브라우저로 들어와 <b>더보기 → 알림 설정</b>의 <span class="k">PC 프로그램 받기</span>(늘 지금 판 — 지금은 <a href="https://mjms-office.vercel.app/downloads/desktop/mjms-office-0.3.8-windows-x64-setup.exe">0.3.8</a>). 열면 <b>관리자 권한 없이</b> 내 계정에만 깔려요', s: 0 },
+      { t: '설치 파일 받기: PC 브라우저로 들어와 <b>더보기 → 알림 설정</b>의 <span class="k">PC 프로그램 받기</span>(늘 지금 판 — 지금은 <a href="https://mjms-office.vercel.app/downloads/desktop/mjms-office-0.3.11-windows-x64-setup.exe">0.3.11</a>). 열면 <b>관리자 권한 없이</b> 내 계정에만 깔려요', s: 0 },
       { t: '<span class="q">「Windows의 PC 보호」</span>가 뜨면 <span class="k">추가 정보</span> → <span class="k">실행</span>(학교에서 만든 프로그램이라 아직 서명 전)', s: 0 },
       { t: '오른쪽 가장자리에 창이 뜨면 <b>이름·비밀번호로 한 번 더 로그인</b>(브라우저와 따로)', s: 0 },
       { t: '알림 설정에 <span class="q">「켜짐 · 설치한 프로그램은 알림이 늘 켜져 있습니다」</span> → <span class="k">내 기기로 시험 발송</span>', s: 0, r: R("pc-noti", "on") },
       { t: '창의 <b>✕는 숨기기</b> — 트레이에서 알림을 계속 받아요(카드가 남아 있으면 트레이 아이콘에 빨간 점). 완전히 끄려면 트레이 아이콘 오른쪽 클릭 → <span class="k">끝내기</span>', s: 0, r: R("pc-noti", "tray") }
     ],
-    gnote: { html: "<span>윈도우를 켜면 저절로 켜지고(트레이 메뉴 「윈도우 시작 때 자동 실행」으로 끄기), 두 번 눌러도 창은 하나입니다. 새 판은 하루 한 번 스스로 받아 「새 판을 받았어요」 알림을 주고, 0.3.5부터는 <b>켤 때</b> 새 판이 있으면 받아서 바로 바꾼 뒤 열립니다. 0.3.4부터 AI 해죠 화면에 파일을 <b>끌어 놓으면</b> 자료로 붙고, 0.3.6부터는 한글 파일(신고서·서식)을 받기 전에 <b>저장할 곳</b>을 묻습니다(맥은 0.3.7부터). 0.3.8부터는 새 알림이 오면 열어 둔 넵 방이 바로 새로 읽습니다. 알림 카드는 누를 때까지 남고, 3개가 넘으면 「알림 N개 더 · 알림함 열기」로 묶입니다. 설치 직후 창이 <b>검게만</b> 보이면 PC를 한 번 다시 시작해 주세요. <b>맥</b>은 같은 곳의 「PC 프로그램 받기」에서 맥용(<a href='https://mjms-office.vercel.app/downloads/desktop/mjms-office-0.3.8-mac.dmg'>mjms-office-0.3.8-mac.dmg</a>)을 받아 열고 응용 프로그램 폴더로 끌어 넣고, 아이콘은 화면 위 메뉴 막대에 생깁니다(⌘Q는 완전히 꺼서 알림도 멈춰요). 예전 0.2.0을 깐 분은 새 판을 한 번만 다시 깔면 그다음부터 저절로 받습니다.</span>" },
+    gnote: { html: "<span>윈도우를 켜면 저절로 켜지고(트레이 메뉴 「윈도우 시작 때 자동 실행」으로 끄기), 두 번 눌러도 창은 하나입니다. 새 판은 하루 한 번 스스로 받아 「새 판을 받았어요」 알림을 주고, 0.3.5부터는 <b>켤 때</b> 새 판이 있으면 받아서 바로 바꾼 뒤 열립니다. 0.3.4부터 AI 해죠 화면에 파일을 <b>끌어 놓으면</b> 자료로 붙고, 0.3.6부터는 한글 파일(신고서·서식)을 받기 전에 <b>저장할 곳</b>을 묻습니다(맥은 0.3.7부터). 0.3.8부터는 새 알림이 오면 열어 둔 넵 방이 바로 새로 읽고, 0.3.9부터 아이콘이 휴대폰 홈 화면과 같은 그림입니다(0.3.11은 보안 고침). 알림 카드는 누를 때까지 남고, 3개가 넘으면 「알림 N개 더 · 알림함 열기」로 묶입니다. 설치 직후 창이 <b>검게만</b> 보이면 PC를 한 번 다시 시작해 주세요. <b>맥</b>은 같은 곳의 「PC 프로그램 받기」에서 맥용(<a href='https://mjms-office.vercel.app/downloads/desktop/mjms-office-0.3.11-mac.dmg'>mjms-office-0.3.11-mac.dmg</a>)을 받아 열고 응용 프로그램 폴더로 끌어 넣고, 아이콘은 화면 위 메뉴 막대에 생깁니다(⌘Q는 완전히 꺼서 알림도 멈춰요). 예전 0.2.0을 깐 분은 새 판을 한 번만 다시 깔면 그다음부터 저절로 받습니다.</span>" },
     figs: [["img/pc/desktop.jpg", "교무실 PC: 오른쪽 가장자리 좁은 창, 오른쪽 아래 알림 카드(잎사귀 편지), 트레이 메뉴(이해를 돕는 합성 그림)"], ["img/pc/install.jpg", "깔기: 파일 받기 → 「PC 보호」면 추가 정보 → 실행 → 창이 뜨면 로그인"]],
     screens: [shot("pc-noti")],
     notes: "따라하기 안내에만 싣는 카드입니다."
@@ -950,14 +950,16 @@
       { t: '<span class="q">「빼꼼 · 오늘 학교는」</span> 판: 일정·경건회·지도 세 줄, 어디를 눌러도 <b>빼꼼</b>', g: '<span class="q">「빼꼼 · 오늘 학교는」</span> 판: 오늘 <b>일정</b>(첫 일정 + 외 N건)·<b>경건회</b>(인도·말씀·찬송)·<b>지도</b>(등교·급식, 내 이름은 굵게) 세 줄. 판 어디를 눌러도 빼꼼 그날로 갑니다', s: 0, r: R("home", "peek"), newf: true, z: 1.6 },
       { t: '판 오른쪽 위 알약 <span class="q">「공지 3 · 교체 5」</span> = 빼꼼의 공지·바뀐 수업 수', s: 0, r: R("home", "pill"), newf: true, z: 1.9 },
       { t: '두 칸 <span class="q">내 수업 · 내 일정</span>: 누르면 <b>시간표·달력</b>', g: '두 칸 <span class="q">내 수업 · 내 일정</span>: 누르면 <b>시간표·달력</b>(오른쪽 화살표 = 누르는 칸). 내 일정은 「일정 3 · 넵 2」처럼 나눠 셉니다', s: 0, r: R("home", "tiles"), newf: true, z: 1.9 },
-      { t: '<span class="q">「처리할 넵 6건 · 새 메시지 4건」</span> 줄 — 누르면 넵 「받은」 탭', s: 0, r: R("home", "nep"), z: 1.8 },
+      { t: '오른쪽 남색 기둥 = <b>내 바로가기</b>: 처음엔 전자칠판·수업교체·분실물, 빨간 숫자는 처리할 것', g: '오른쪽 남색 기둥 = <b>내 바로가기</b>(10월 30일): 처음엔 전자칠판 알림·수업교체·분실물 함. 빨간 숫자는 처리할 것(수업교체·넵·전자서명). 화면을 내려도 기둥은 제자리에 붙어 있습니다', s: 0, r: R("home", "rail"), newf: true },
+      { t: '기둥 맨 아래 <span class="k">톱니</span> → <span class="q">「바로가기 고르기」</span>: 더보기 도구 중 <b>최대 6개</b>', g: '기둥 맨 아래 <span class="k">톱니</span> → <span class="q">「바로가기 고르기」</span>: 더보기의 도구 중 <b>최대 6개</b>를 골라 <span class="k">완료</span>. 고른 것은 <b>그 기기에만</b> 저장됩니다(폰·PC 따로)', s: 2, r: R("home-sheet", "pick"), newf: true },
+      { t: '<span class="q">「처리할 넵 6건 · 새 메시지 6건」</span> 줄 — 누르면 넵 「받은」 탭', s: 0, r: R("home", "nep"), z: 1.8 },
       { t: '오늘 시간표: 지금 교시에 <span class="q">「지금」</span>, 지난 교시는 흐리게, 교체는 「바뀜」', g: '오늘 시간표: 지금 교시에 노란 칸 <span class="q">「지금」</span>(쉬는 시간엔 점선 「다음」), 지난 교시는 흐리게. 교체로 들어온 수업은 초록 「바뀜」, 넘긴 교시는 「교체」. 칸의 점은 그 교시에 겹친 일정', s: 0, r: R("home", "now"), z: 1.9 },
-      { t: '그 아래 <b>급식</b>, 맨 아래 <span class="q">「다가오는 일정」</span>: 오늘부터 7일, 누르면 그날 달력', g: '그 아래 <b>급식</b>, 맨 아래 <span class="q">「다가오는 일정」</span>: 오늘부터 7일, 누르면 그날 달력. 그 주 주간소식이 올라오면 머리에 <span class="k">주간소식</span>', s: 1, r: R("home-3", "upcoming") }
+      { t: '그 아래 <b>급식</b>, 맨 아래 <span class="q">「다가오는 일정」</span>: 오늘부터 7일, 누르면 그날 달력', g: '그 아래 <b>급식</b>, 맨 아래 <span class="q">「다가오는 일정」</span>: 오늘부터 7일, 누르면 그날 달력. 머리 오른쪽 <span class="k">월간</span>은 달력, 그 주 주간소식이 올라오면 <span class="k">주간</span>도', s: 1, r: R("home-3", "upcoming") }
     ],
-    gnote: { html: "<span><b>저녁 7시부터는 「내일」 화면</b>입니다 — 빼꼼 판·두 칸·시간표·급식이 모두 내일 것으로 바뀌고 한마디는 「평안한 밤 되세요」. 주말·쉬는 날에는 다음 등교일 것이 보입니다. 홈의 <b>「오늘 알림」 카드는 없어졌습니다</b>(10월 28일) — 공지·교체 수는 빼꼼 판에, 새 공지는 알림·알림함·빼꼼에서 봅니다. 화면 속 이름·일정은 예시입니다.</span>" },
-    screens: [shot("home"), shot("home-3")],
-    lt: { tag: "NEW", title: "새 홈 화면", sub: "10월 28일 · 빼꼼 판과 두 칸" },
-    notes: "10월 28일에 홈 위쪽 파란 띠를 다시 정리했습니다. 띠의 주인공은 <b>빼꼼 판</b>입니다 — 오늘 일정, 경건회(인도·말씀·찬송), 등교·급식 지도 세 줄이 모두에게 보이고, 판 어디를 눌러도 빼꼼으로 갑니다. 오른쪽 알약 「공지 3 · 교체 5」는 빼꼼의 공지·바뀐 수업 수입니다. 그 아래 두 칸은 <b>내 수업</b>(시간표)과 <b>내 일정</b>(달력)입니다. 예전 「오늘 알림」 카드는 띠와 겹쳐서 없앴습니다. <b>저녁 7시부터</b>는 홈 전체가 내일 것으로 바뀌어, 퇴근길에 내일 수업·일정을 봅니다. 큰 글씨 한마디는 선생님마다 다르고(퇴근했다고 단정하거나 다그치는 말은 쓰지 않습니다), 화면 속 이름·일정은 예시입니다."
+    gnote: { html: "<span>카드 머리 오른쪽 글자는 두 글자로 바뀌었습니다(10월 31일) — 시간표 카드 <b>「진도」·「전체」</b>, 급식 <b>「전체」</b>, 다가오는 일정 <b>「주간」</b>(주간소식)·<b>「월간」</b>(달력). PC처럼 넓은 화면에는 바로가기 기둥이 없고 왼쪽 메뉴를 씁니다. <b>저녁 7시부터는 「내일」 화면</b>입니다 — 빼꼼 판·두 칸·시간표·급식이 모두 내일 것으로 바뀌고 한마디는 「평안한 밤 되세요」. 주말·쉬는 날에는 다음 등교일 것이 보입니다. 홈의 <b>「오늘 알림」 카드는 없어졌습니다</b>(10월 28일) — 공지·교체 수는 빼꼼 판에, 새 공지는 알림·알림함·빼꼼에서 봅니다. 화면 속 이름·일정은 예시입니다.</span>" },
+    screens: [shot("home"), shot("home-3"), shot("home-sheet")],
+    lt: { tag: "NEW", title: "새 홈 화면", sub: "빼꼼 판·두 칸(10/28) · 오른쪽 바로가기 기둥(10/30)" },
+    notes: "10월 28일에 홈 위쪽 파란 띠를 다시 정리했습니다. 띠의 주인공은 <b>빼꼼 판</b>입니다 — 오늘 일정, 경건회(인도·말씀·찬송), 등교·급식 지도 세 줄이 모두에게 보이고, 판 어디를 눌러도 빼꼼으로 갑니다. 오른쪽 알약 「공지 3 · 교체 5」는 빼꼼의 공지·바뀐 수업 수입니다. 그 아래 두 칸은 <b>내 수업</b>(시간표)과 <b>내 일정</b>(달력)입니다. 예전 「오늘 알림」 카드는 띠와 겹쳐서 없앴습니다. 10월 30일에는 띠 아래 카드 오른쪽에 <b>남색 바로가기 기둥</b>이 생겼습니다 — 처음엔 전자칠판 알림·수업교체·분실물 함이 들어 있고, 맨 아래 톱니를 누르면 더보기의 도구 중 최대 6개를 골라 둘 수 있습니다(그 기기에만 저장). 화면을 내려도 기둥은 제자리에 있고, 처리할 것이 있으면 빨간 숫자가 붙습니다. <b>저녁 7시부터</b>는 홈 전체가 내일 것으로 바뀌어, 퇴근길에 내일 수업·일정을 봅니다. 큰 글씨 한마디는 선생님마다 다르고(퇴근했다고 단정하거나 다그치는 말은 쓰지 않습니다), 화면 속 이름·일정은 예시입니다."
   });
 
   practice({
@@ -981,7 +983,7 @@
     id: "info", deck: false, part: 3, num: null, label: "일정·주간소식·급식", min: 0.8,
     chips: [{ t: "둘러보기" }], title: "일정·주간소식·급식도 <em>한곳에</em>",
     steps: [
-      { t: '홈 「다가오는 일정」의 <span class="k">달력</span>: 학사일정 달력, 휴대폰에선 점으로(가로로 두면 일정 이름)', s: 0, r: R("calendar", "grid") },
+      { t: '홈 「다가오는 일정」의 <span class="k">월간</span>: 학사일정 달력, 휴대폰에선 점으로(가로로 두면 일정 이름)', s: 0, r: R("calendar", "grid") },
       { t: '일정 맨 위 <span class="q">「월간 | 주간소식」</span>: <span class="k">주간소식</span>을 누르면 그 주 주간소식', s: 0, r: R("calendar", "seg"), newf: true },
       { t: '주간소식은 요일마다 카드, 그 안의 <span class="q">「나에게만」</span>: 넵 마감·넵 일정, 내 교체 수업', s: 1, r: R("weekly", "mine"), newf: true, z: 1.6 },
       { t: '<span class="k">원본 보기</span>: 교무부 PDF 그대로(늘 보시던 인쇄물)', s: 1, r: R("weekly", "seg"), z: 1.9 },
@@ -1012,7 +1014,7 @@
     id: "p4", part: 3, num: 7, label: "실습 7 · 시간표와 빈 교실", min: 2, practiceMin: 2, trans: "zoom",
     chips: [{ t: "실습 7 · 시간표" }, { t: "2분", c: "ghost" }], title: "내 시간표와 지금 빈 교실",
     steps: [
-      { t: '홈 <span class="q">「오늘 시간표」</span>의 <span class="k">전체 보기</span>', s: 0, r: R("home", "tt"), z: 1.8 },
+      { t: '홈 <span class="q">「오늘 시간표」</span> 머리 오른쪽 <span class="k">전체</span>', s: 0, r: R("home", "tt"), z: 1.8 },
       { t: '<span class="q">「교사 · 학급 · 교실 · 전체」</span>로 보는 기준을 바꿉니다', s: 1, r: R("tt-my", "tabs") },
       { t: '이번 주 칸에 <b>학사일정·넵 일정</b> 띠, 누르면 <b>전체 글</b>', s: 2, r: R("tt-pop", "pop") },
       { t: '그 주 <b>수업교체</b>가 저절로: 초록 「바뀜」·흐린 「교체」·「수락 대기」', s: 1, r: R("tt-my", "changed"), z: 1.9 },
@@ -1029,7 +1031,7 @@
     id: "p5", part: 3, num: 8, label: "실습 8 · 오늘 진도 「모두 저장」", min: 1.8, practiceMin: 3,
     chips: [{ t: "실습 8 · 진도표" }, { t: "3분", c: "ghost" }], title: "진도는 한 줄로, <em>모두 저장</em> 한 번",
     steps: [
-      { t: '홈 <span class="q">「오늘 시간표」</span>의 <span class="k">진도 기록</span>', s: 0, r: [246, 569, 62, 21], z: 1.9 },
+      { t: '홈 <span class="q">「오늘 시간표」</span> 머리 오른쪽 <span class="k">진도</span>', s: 0, r: R("home", "pg"), z: 1.9 },
       { t: '오늘 <b>실제로 하는 수업</b>마다 칸이 하나 — 교체로 들어온 수업은 「바뀜」', g: '오늘 <b>실제로 하는 수업</b>마다 칸이 하나(학사일정·확정된 교체 반영). 교체로 들어온 수업은 「바뀜」, 넘긴 수업은 칸 없이 아래 한 줄로', s: 1, r: R("pg-today", "card") },
       { t: '적은 뒤 화면 아래 <span class="k">모두 저장</span> 한 번', s: 1, r: R("pg-today", "save"), newf: true, z: 1.9 },
       { t: '아래 <span class="q">「학급별 보기」</span>: 반마다 최근 기록, 누르면 그 반 진도', s: 2, r: R("pg-today-classes", "classes") },
@@ -1261,7 +1263,7 @@
     sub: "옆 선생님 이름을 눌러 방을 열고 넵 받기를 주고받아 보세요 · 넘기면 타이머가 갑니다",
     gnote: { html: "<span><b>실습</b>: 옆 선생님 이름을 눌러 방을 열고 넵 받기를 주고받아 보세요. 방을 열면 그 방의 메시지가 <b>모두 읽음</b>이 됩니다. 열어 둔 방·받은 탭에는 새 넵이 오면 <b>바로</b> 뜹니다(10월 28일). 교장·교감·목사님은 넵에서도 「선생님」 대신 호칭으로 보입니다. 전체 공지도 <b>보낸 선생님 방</b>에 카드로 들어옵니다(단체방은 없어요). 답장은 <b>원래 보낸 분 한 분께만</b> 가고, 첨부는 되지만 답 받기·예약·긴급은 없습니다. 메시지에도 [넵]이 있어 누르면 보낸 분 현황에 「넵」으로 셉니다. 파일 받기는 현황판 「제출 N명」 옆 <b>모두 받기</b>로 zip 하나. 글 속 주소는 <b>링크 카드 「열기」</b>로 보입니다. 넵 글은 학년도 끝(2월 말)까지, 첨부 파일은 닫힌 지 90일 뒤 지워집니다.</span>" },
     screens: [shot("nep-inbox"), shot("nep-inbox-2"), shot("nep-room"), shot("nep-room-done"), shot("nep-room-reply"), shot("nep-sent"), shot("nep-board"), shot("nep-board-replies")],
-    notes: "받은 탭은 메신저 대화 목록과 같습니다. <b>보낸 선생님마다 한 줄</b>이고, 안 읽은 것이 있으면 주황 숫자와 아바타 둘레 주황 고리가 보입니다. 처리할 것이 있으면 「넵 받기 1」「완료 받기 1」 칩이 붙고, 마감이 오늘이거나 지났으면 칩이 주황입니다. 줄을 누르면 그 선생님과의 방 — 왼쪽은 받은 카드, 오른쪽 남색 말풍선은 내가 그분께 보낸 것입니다. 카드 안 [완료]를 누르면 「완료함 ✓」. <b>아래 칸에 쓰면 그 선생님 한 분께만 답장</b>이 갑니다. 전체 공지에 답장해도 모두에게 가지 않습니다. 보낸 탭에서는 「4/9 완료」처럼 숫자로 보이고, 눌러서 「아직 5명」에게 다시 알림을 보내거나 받은 답장을 모아 봅니다."
+    notes: "받은 탭은 메신저 대화 목록과 같습니다. <b>보낸 선생님마다 한 줄</b>이고, 안 읽은 것이 있으면 주황 숫자와 아바타 둘레 주황 고리가 보입니다. 처리할 것이 있으면 「넵 받기 1」「완료 받기 1」 칩이 붙고, 마감이 오늘이거나 지났으면 칩이 주황입니다. 줄을 누르면 그 선생님과의 방 — 왼쪽은 받은 카드, 오른쪽 남색 말풍선은 내가 그분께 보낸 것입니다. 카드 안 [완료]를 누르면 「완료함 ✓」. <b>아래 칸에 쓰면 그 선생님 한 분께만 답장</b>이 갑니다. 전체 공지에 답장해도 모두에게 가지 않습니다. 보낸 탭에는 여러 분께 보낸 넵과 예약한 넵만 있고(한 분께 보낸 넵은 그분 방에, 10월 30일), 「4/9 완료」처럼 숫자로 보이고, 눌러서 「아직 5명」에게 다시 알림을 보내거나 받은 답장을 모아 봅니다."
   });
 
   practice({

diff --git a/pc-scenes.js b/pc-scenes.js
@@ -105,7 +105,7 @@
 
     D.add({
       id: "pcInstall", part: o.part, label: "PC 설치본 · 깔기", kind: "light", min: o.minInstall || 1.2, isNew: true, trans: "push",
-      notes: "까는 법은 세 단계입니다. ① <b>설치 파일을 받아 엽니다</b> — PC 브라우저로 AI 교무실에 들어와 더보기 → 알림 설정의 <b>「PC 프로그램 받기」</b>를 누르면 늘 지금 판을 받습니다(지금은 0.3.8, 윈도우·맥 PC에서만 보입니다). 학교 공유 드라이브 <b>「AI교무실 › PC 설치파일」</b> 폴더에도 같은 설치 파일이 있습니다(10월 27일). <b>관리자 권한 없이</b> 내 윈도우 계정에만 깔리고, 설치 화면은 한국어입니다. ② 학교에서 만든 프로그램이라 아직 서명 전이어서 처음 열 때 <b>「Windows의 PC 보호」</b>가 뜰 수 있습니다 — <b>「추가 정보」</b>를 누르면 나오는 <b>[실행]</b>을 누르면 됩니다. ③ 창이 뜨면 <b>이름·비밀번호로 한 번 더 로그인</b>합니다(브라우저 로그인과 따로). 그다음부터 이 PC로 알림 카드가 옵니다. 알림 설정 화면에는 「켜짐 · 설치한 프로그램은 알림이 늘 켜져 있습니다」가 보이고, 시험 발송으로 확인할 수 있습니다. 설치 직후 창이 검게만 보이면 <b>PC를 한 번 다시 시작</b>해 주세요. 맥은 같은 곳의 맥용 파일(dmg)을 열어 응용 프로그램 폴더로 끌어 넣고, 트레이 대신 화면 위 메뉴 막대에 아이콘이 생깁니다(⌘Q는 완전히 꺼서 알림도 멈춥니다). 예전 0.2.0을 깐 분은 새 판을 한 번만 다시 깔면 그다음부터 저절로 새 판을 받습니다." + (o.notesExtra2 || ""),
+      notes: "까는 법은 세 단계입니다. ① <b>설치 파일을 받아 엽니다</b> — PC 브라우저로 AI 교무실에 들어와 더보기 → 알림 설정의 <b>「PC 프로그램 받기」</b>를 누르면 늘 지금 판을 받습니다(지금은 0.3.11, 윈도우·맥 PC에서만 보입니다). 학교 공유 드라이브 <b>「AI교무실 › PC 설치파일」</b> 폴더에도 같은 설치 파일이 있습니다(10월 27일). <b>관리자 권한 없이</b> 내 윈도우 계정에만 깔리고, 설치 화면은 한국어입니다. ② 학교에서 만든 프로그램이라 아직 서명 전이어서 처음 열 때 <b>「Windows의 PC 보호」</b>가 뜰 수 있습니다 — <b>「추가 정보」</b>를 누르면 나오는 <b>[실행]</b>을 누르면 됩니다. ③ 창이 뜨면 <b>이름·비밀번호로 한 번 더 로그인</b>합니다(브라우저 로그인과 따로). 그다음부터 이 PC로 알림 카드가 옵니다. 알림 설정 화면에는 「켜짐 · 설치한 프로그램은 알림이 늘 켜져 있습니다」가 보이고, 시험 발송으로 확인할 수 있습니다. 설치 직후 창이 검게만 보이면 <b>PC를 한 번 다시 시작</b>해 주세요. 맥은 같은 곳의 맥용 파일(dmg)을 열어 응용 프로그램 폴더로 끌어 넣고, 트레이 대신 화면 위 메뉴 막대에 아이콘이 생깁니다(⌘Q는 완전히 꺼서 알림도 멈춥니다). 예전 0.2.0을 깐 분은 새 판을 한 번만 다시 깔면 그다음부터 저절로 새 판을 받습니다." + (o.notesExtra2 || ""),
       html: '<div class="chiprow"><span class="chip">교무실 PC</span><span class="chip ghost">자리에서 해 보세요</span></div>' +
         '<h2 class="title">깔기는 <em>세 단계</em></h2>' +
         '<div class="abs pc-fig"><img src="img/pc/install.jpg" alt="설치 파일 받기, Windows의 PC 보호에서 실행, 창이 뜨면 로그인"><div class="pc-dim" style="left:0;width:486px"></div><div class="pc-dim" style="left:486px;width:484px"></div><div class="pc-dim" style="left:970px;width:530px"></div></div>',

diff --git a/guide.html b/guide.html
@@ -160,7 +160,7 @@ footer { color: var(--muted); font-size: 13px; text-align: center; padding: 10px
     <details><summary>넵 보내기 화면·「확인요청」 같은 이름이 안 보여요</summary><p>10월 18일에 넵이 <b>메신저처럼</b> 바뀌었습니다. 이름도 바뀌어 알림 = <b>메시지</b>, 확인요청 = <b>넵 받기</b>, 업무요청 = <b>완료 받기</b>, 제출요청 = <b>파일 받기</b>입니다. 여러 분께는 조직도에서 체크 → 「N명에게 쓰기」, 한 분께는 <b>이름을 눌러 방</b>에서 바로 씁니다. 제목 칸은 없고 첫 줄이 제목입니다.</p></details>
     <details><summary>「회신」 단추가 없어요</summary><p>「회신」은 <b>「답장」</b>이 되었고 단추 대신 <b>방 아래 칸</b>에 쓰면 됩니다. 원래 보낸 선생님 한 분께만 가고, 전체 공지에 답장해도 모두에게 가지 않습니다.</p></details>
     <details><summary>받은 탭 숫자가 안 줄어요</summary><p>받은 탭을 본다고 읽음이 되지 않고, <b>그 선생님 방을 열어야</b> 방 전체가 읽음이 됩니다. 넵 받기·완료 받기·파일 받기는 카드의 <b>[넵]·[완료]·[제출]</b>을 눌러야 처리됩니다.</p></details>
-    <details><summary>아래 탭에 「시간표」가 없어졌어요</summary><p>둘째 칸이 <b>「넵」</b>으로 바뀌었습니다(처리할 넵 수가 탭에 바로 붙어요). 시간표·진도표는 홈 「오늘 시간표」 카드의 <b>전체 보기</b>·<b>진도 기록</b>에서 엽니다(일정·주간소식·급식도 홈 카드에서 — 10월 20일부터 더보기 메뉴에서 빠졌어요).</p></details>
+    <details><summary>아래 탭에 「시간표」가 없어졌어요</summary><p>둘째 칸이 <b>「넵」</b>으로 바뀌었습니다(처리할 넵 수가 탭에 바로 붙어요). 시간표·진도표는 홈 「오늘 시간표」 카드 머리의 <b>전체</b>·<b>진도</b>에서 엽니다(10월 31일부터 두 글자)(일정·주간소식·급식도 홈 카드에서 — 10월 20일부터 더보기 메뉴에서 빠졌어요).</p></details>
     <details><summary>글자와 글꼴이 바뀌었어요</summary><p>10월 17일 화면 정리로 글꼴이 <b>프리텐다드</b>로 바뀌고 글자가 한 단계 커졌습니다. 흐린 글씨도 더 진하게 보이도록 맞췄습니다.</p></details>
     <details><summary>「깊게 생각하기」는 몇 번 쓸 수 있나요?</summary><p>선생님마다 <b>하루 5번</b>입니다. 켜고 보낸 그 질문 하나에만 쓰이고, 다 쓰면 막지 않고 보통으로 답합니다. 질문은 모두 합쳐 하루 60개까지입니다.</p></details>
     <details><summary>손 서명을 그려도 선이 안 보여요</summary><p>10월 15~16일에 생긴 문제로, <b>10월 17일에 고쳤습니다</b>. 앱을 한 번 닫았다 다시 열거나 새로 고침한 뒤 「서명 그리기」를 다시 눌러 주세요. 그래도 안 되면 교목실로 알려 주세요.</p></details>

diff --git a/index.html b/index.html
@@ -139,8 +139,10 @@ main { max-width: 1040px; margin: -26px auto 0; padding: 0 16px 60px; position: 
     </ol>
   </section>
   <section class="new">
-    <h2><span class="nw">NEW</span> 10월 26~29일에 바뀐 것</h2>
+    <h2><span class="nw">NEW</span> 10월 26~31일에 바뀐 것</h2>
     <ul>
+      <li><a href="guide.html#home">홈 오른쪽 남색 <b>바로가기 기둥</b>(10/30) — 처음엔 전자칠판·수업교체·분실물, 맨 아래 톱니로 최대 6개 고르기(그 기기에만 저장)</a>, 카드 머리 글자는 두 글자로(진도·전체·주간·월간)</li>
+      <li><a href="guide.html#p7">넵 보낸 탭에는 여러 분께 보낸 것·예약만(한 분께 보낸 넵은 그분 방에)</a>, <a href="guide.html#pc">PC 프로그램 0.3.11(아이콘이 휴대폰과 같은 그림, 보안 고침)</a></li>
       <li><a href="guide.html#home">홈 위쪽이 「빼꼼 · 오늘 학교는」 판(일정·경건회·지도)과 두 칸 「내 수업 · 내 일정」으로</a> — 판 어디를 눌러도 빼꼼, 오른쪽 알약은 공지·교체 수, 홈의 「오늘 알림」 카드는 없어짐</li>
       <li><a href="guide.html#home">저녁 7시부터 홈은 「내일」 화면</a> — 빼꼼 판·두 칸·시간표·급식이 모두 내일 것</li>
       <li><a href="guide.html#info">일정 맨 위 「월간 | 주간소식」 — 주간소식 요일 카드 안 「나에게만」에 내 넵 마감·교체 수업</a>, <a href="guide.html#today">빼꼼 알림판 첫 줄 「금주의 기도제목」(월요교사기도회 순서지)</a></li>
